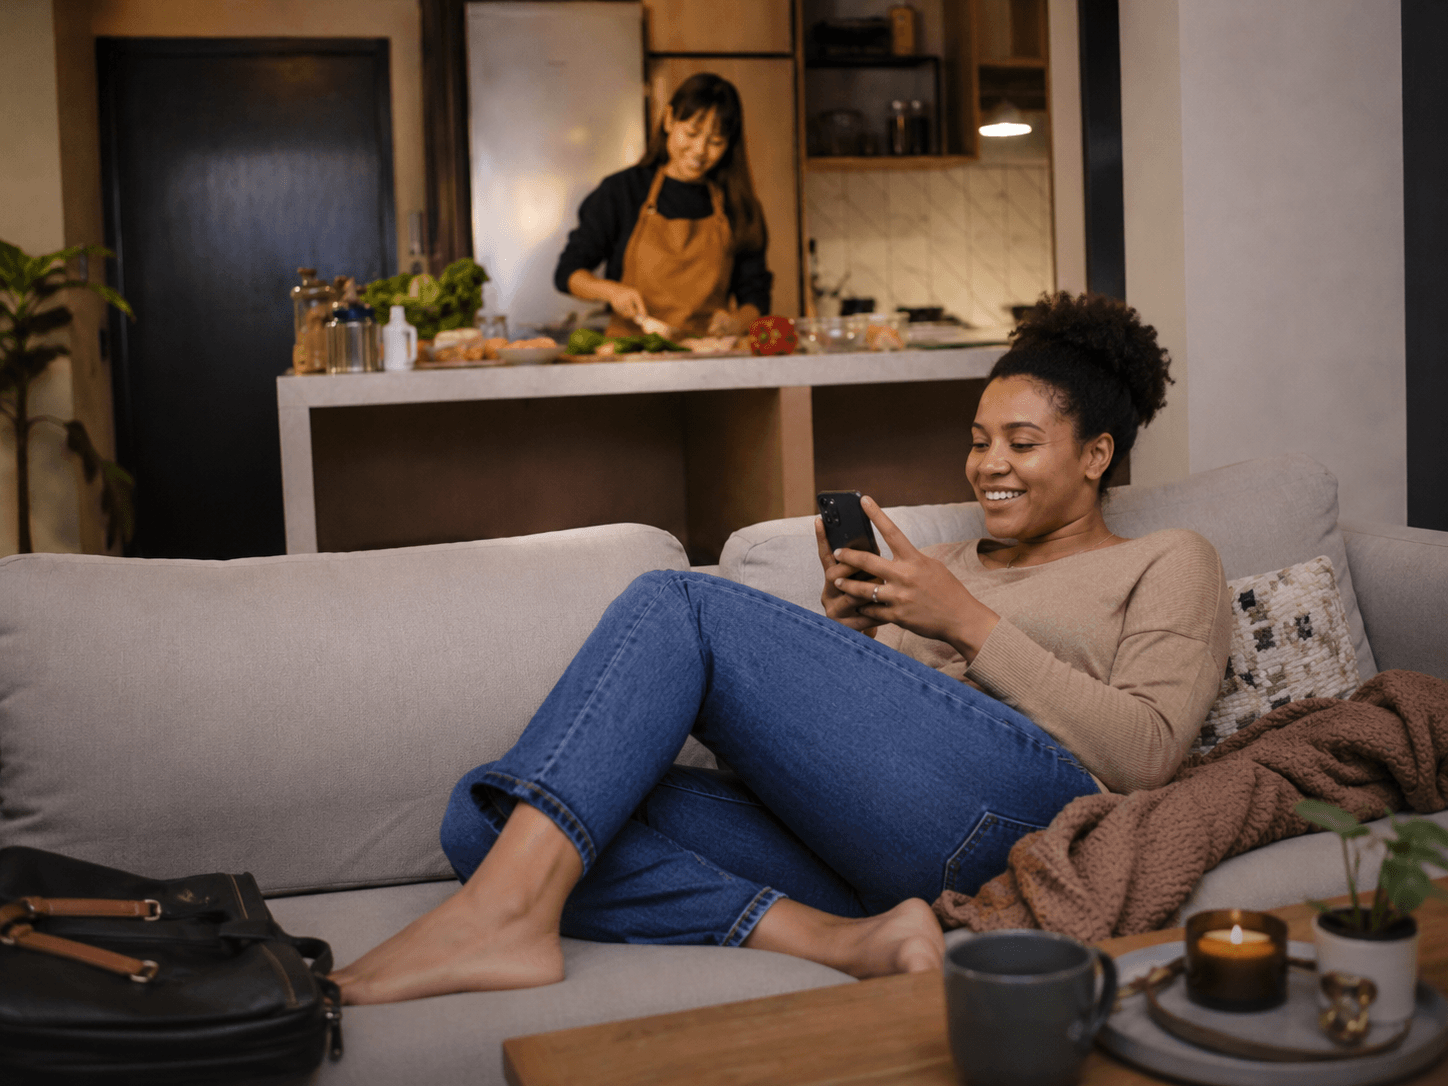
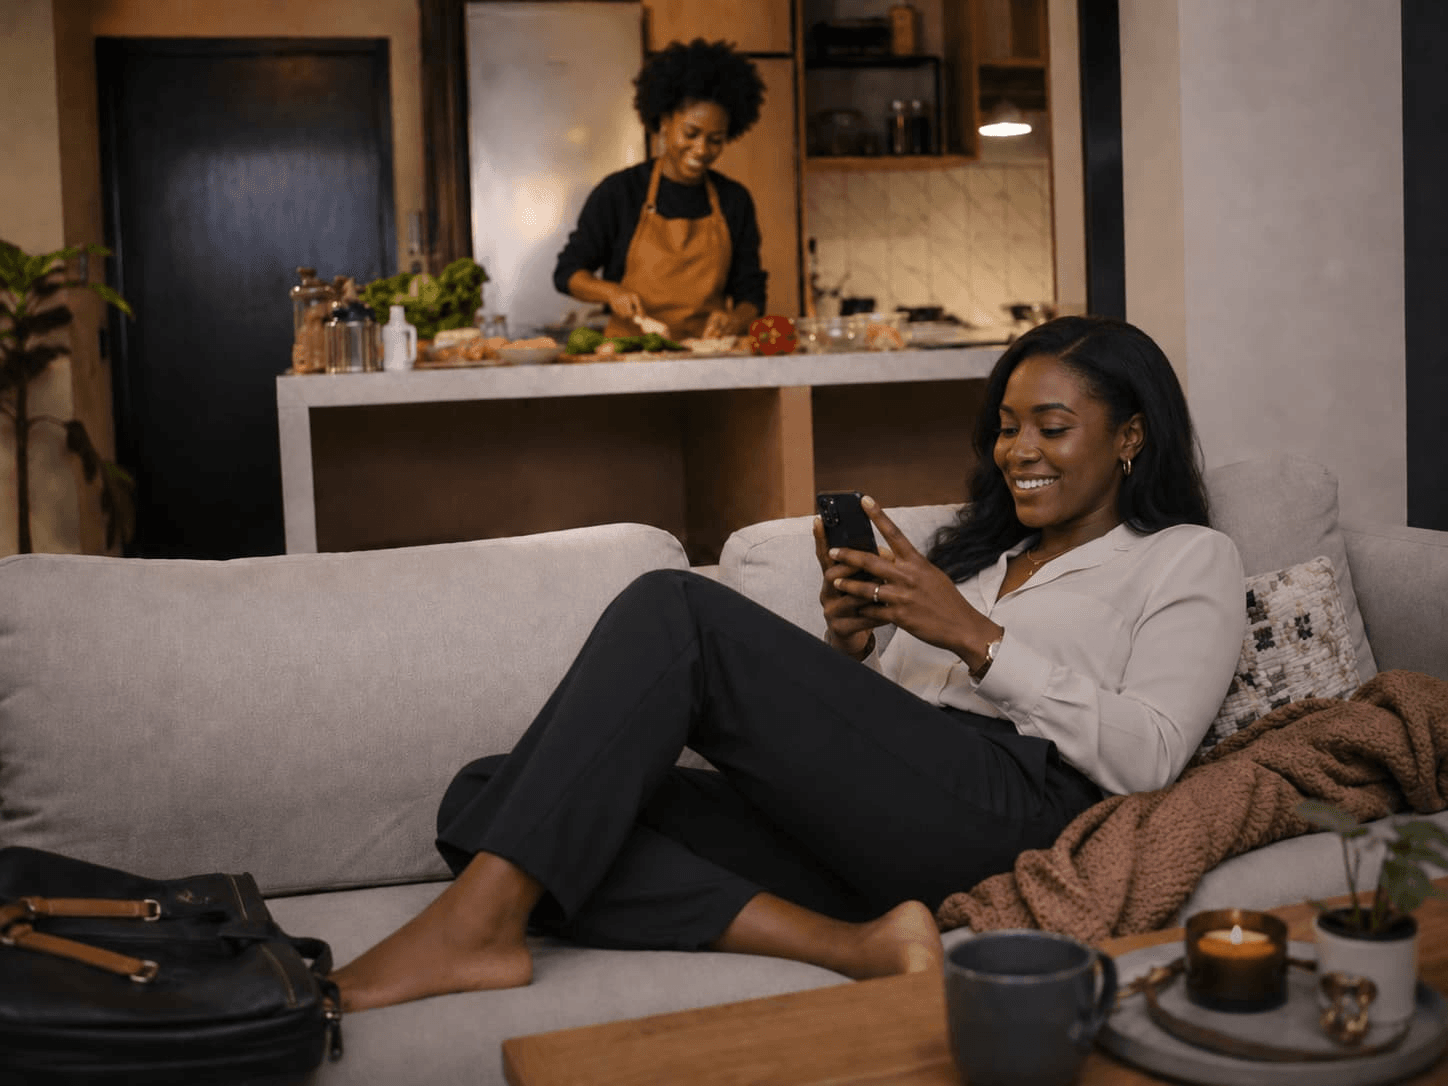
fix: replace after-work hero slide image with new sofa/kitchen photo
Swap the "Come home. Switch off. Let someone else cook." carousel slide's
photo per business request, matching the existing 1448x1086 no-alpha PNG
convention used by sibling story images, and add a reusable convert-assets.mjs
pipeline entry for future hero story image updates.

diff --git a/apps/web/src/features/landing/content.ts b/apps/web/src/features/landing/content.ts
@@ -11,7 +11,7 @@ export const LANDING_ASSETS = {
   },
   afterWork: {
     src: "/images/chefmate/story-after-work.png",
-    alt: "A customer relaxing on the sofa after work while a chef cooks dinner in the kitchen",
+    alt: "A customer smiling at her phone on the sofa, feet up, while a Chefmate chef preps dinner in the kitchen behind her",
   },
   couple: {
     src: "/images/chefmate/story-couple-time.png",
